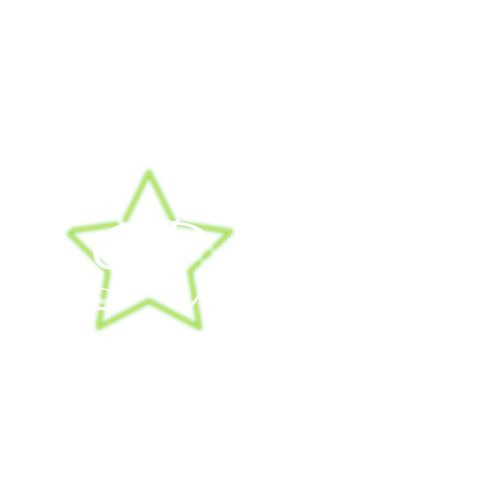
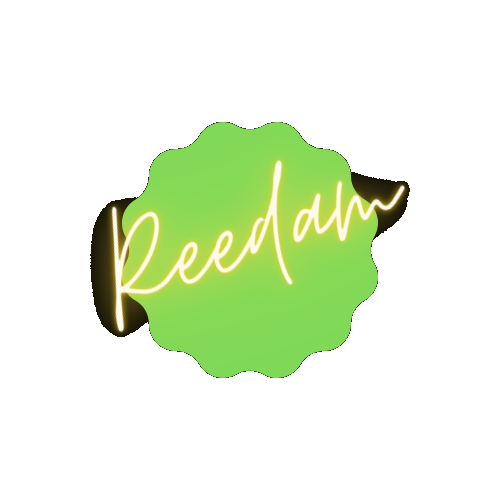
adding bg adn navigation

Changed region(s): [[0.12, 0.24, 0.84, 0.78]]

diff --git a/index.html b/index.html
@@ -4,9 +4,24 @@
     <meta charset="UTF-8">
     <meta http-equiv="X-UA-Compatible" content="IE=edge">
     <meta name="viewport" content="width=device-width, initial-scale=1.0">
+    <link rel="stylesheet" href="index.css">
     <title>Website-Dark</title>
 </head>
 <body>
-    
+    <header>
+        <div class="menu-bar">
+            <div class="logo">
+                <img src="images/Reedam.png" alt="logo">
+            </div>
+            <div class="navbar">
+                <ul>
+                    <li><a href = "#">Home</a></li>
+                    <li><a href = "#">About Me</a></li>
+                    <li><a href = "#">Portfolio</a></li>
+                    <li><a href = "#">Contact Me</a></li>
+                </ul>
+            </div>
+        </div>
+    </header>
 </body>
 </html>

diff --git a/index.css b/index.css
@@ -1,0 +1,31 @@
+*{
+    margin: 0;
+    padding: 0;
+    box-sizing: border-box;
+}
+
+header{
+    width: 100vw;
+    height: 100vh;
+    background-image: url("images/bg.jpg");
+    background-size: cover;
+}
+
+.menu-bar{
+    display: flex;
+    justify-content: center;
+    align-items: center;
+    width: 100vw;
+    height: 10%;
+    border: 1px solid white;
+    position: relative;
+}
+
+.logo img{
+    height: 150px;
+    width: auto;
+    position: absolute;
+    top: 5px;
+    left: 10px;
+    padding: 0;
+}
